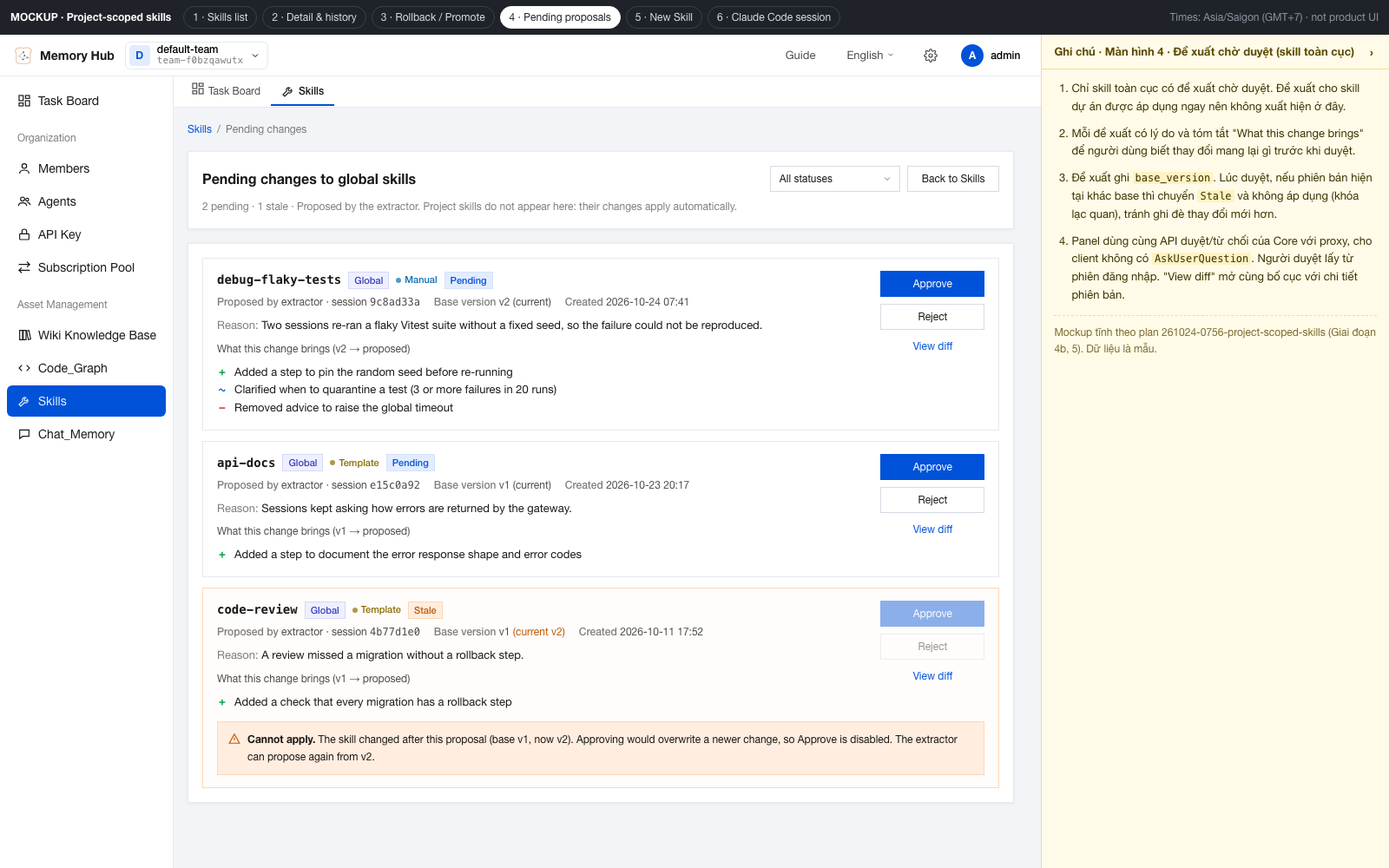
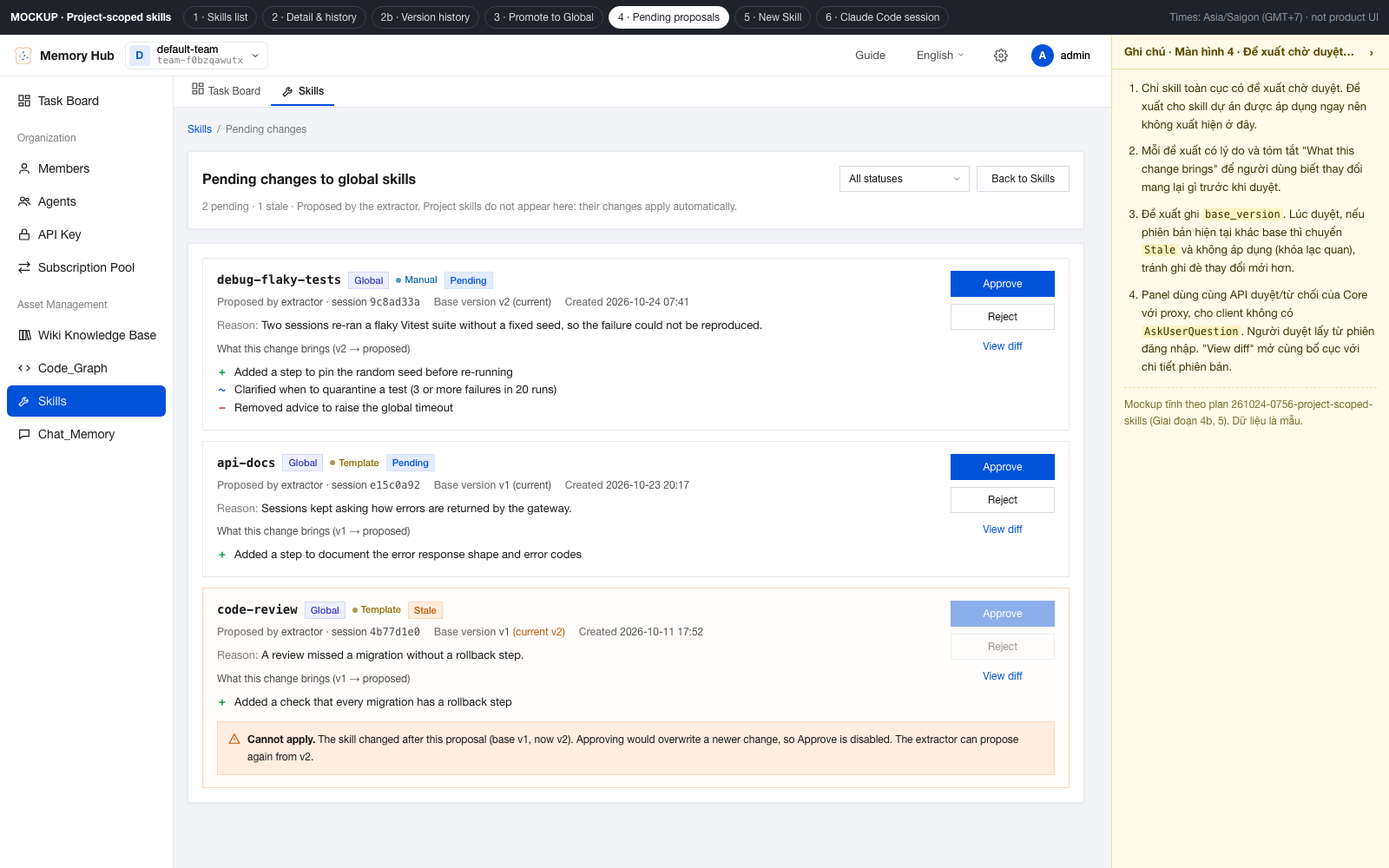
docs: update skills mockup with version history and set-version flow

diff --git a/plans/261024-0756-project-scoped-skills/mockup/skills-mockup.html b/plans/261024-0756-project-scoped-skills/mockup/skills-mockup.html
@@ -10,7 +10,7 @@
   (node_modules/tea-component/dist/themes/default-light.css + default-pack.css)
   and the Panel overrides in MemoryPanel/web/src/index.css / tea-override.css.
   Navigate with the dark strip at the top or with URL hashes:
-    #list  #detail  #version:4  #dialogs  #proposals  #proposal:p1  #new  #cc
+    #list  #detail  #history  #history:rollback:2  #history:after  #version:4  #dialogs  #proposals  #proposal:p1  #new  #cc
 -->
 <style>
 :root{
@@ -70,10 +70,10 @@ button:focus-visible,input:focus-visible,select:focus-visible,textarea:focus-vis
 .mock-strip .sp{flex:1}
 .mock-wrap{flex:1;min-height:0;min-width:0;display:flex;overflow:hidden}
 .app{flex:1;min-width:0;display:flex;flex-direction:column;position:relative;overflow:hidden}
-.notes{flex:0 0 320px;background:var(--mock-note);border-left:1px solid var(--mock-note-border);display:flex;flex-direction:column;transition:flex-basis .2s}
-.notes.collapsed{flex-basis:36px}
+.notes{flex:0 0 320px;width:320px;min-width:0;overflow:hidden;background:var(--mock-note);border-left:1px solid var(--mock-note-border);display:flex;flex-direction:column;transition:flex-basis .2s}
+.notes.collapsed{flex-basis:36px;width:36px}
 .notes-head{display:flex;align-items:center;gap:8px;height:40px;padding:0 8px 0 14px;border-bottom:1px solid var(--mock-note-border);font-weight:600;font-size:13px;color:#5c4a00}
-.notes-head span{flex:1;white-space:nowrap;overflow:hidden}
+.notes-head span{flex:1;min-width:0;white-space:nowrap;overflow:hidden;text-overflow:ellipsis}
 .notes-toggle{border:0;background:transparent;width:24px;height:24px;color:#5c4a00;font-size:16px;line-height:1}
 .notes.collapsed .notes-head span,.notes.collapsed .notes-body{display:none}
 .notes.collapsed .notes-head{padding:0 6px;justify-content:center}
@@ -180,9 +180,9 @@ textarea.input{height:auto;padding:8px 10px;font-family:var(--font-mono);line-he
 .pending-dot{width:6px;height:6px;border-radius:50%;background:var(--tea-color-palette-orange-8)}
 
 /* ===== Split layout + AssetListPanel ===== */
-.split{display:grid;grid-template-columns:360px 6px minmax(0,1fr);flex:1;min-height:560px}
+.split{display:grid;grid-template-columns:minmax(260px,330px) 6px minmax(0,1fr);align-items:start}
 .resizer{display:flex;justify-content:center}.resizer i{width:2px;height:100%;background:var(--tea-color-border-primary-default);border-radius:2px}
-.alp{height:100%;padding:16px;border:1px solid var(--tea-color-border-primary-default);border-radius:6px;background:#fff;box-shadow:var(--tea-shadow-xs);display:flex;flex-direction:column;min-height:0}
+.alp{padding:16px;border:1px solid var(--tea-color-border-primary-default);border-radius:6px;background:#fff;box-shadow:var(--tea-shadow-xs);display:flex;flex-direction:column;min-height:0}
 .alp-head{display:flex;justify-content:space-between;align-items:center;min-height:28px;padding-bottom:8px;margin-bottom:4px;border-bottom:1px solid var(--tea-color-border-secondary-default)}
 .alp-title{font-size:13px;font-weight:600}.alp-count{font-size:12px;color:var(--tea-color-text-tertiary)}
 .alp-items{list-style:none;margin:0;padding:0;overflow-y:auto;flex:1}
@@ -202,15 +202,20 @@ textarea.input{height:auto;padding:8px 10px;font-family:var(--font-mono);line-he
 .pend-mini{font-size:11px;color:var(--tea-color-text-warning-default);font-weight:500}
 
 /* ===== Skill detail card ===== */
-.sd{height:100%;display:flex;flex-direction:column;min-height:0}
+.sd{display:flex;flex-direction:column}
 .sd-head{padding:16px 16px 12px;border-bottom:1px solid var(--tea-color-border-primary-default)}
-.sd-head-main{display:flex;justify-content:space-between;align-items:flex-start;gap:16px}
+.sd-head-main{display:flex;justify-content:space-between;align-items:flex-start;gap:16px;flex-wrap:wrap}
 .sd-name{font-family:var(--font-mono);font-size:14px;font-weight:600;word-break:break-all}
 .sd-id{font-family:var(--font-mono);font-size:11px;color:var(--tea-color-text-tertiary);margin-top:3px}
 .sd-desc{margin-top:4px;font-size:12px;color:var(--tea-color-text-secondary)}
 .sd-meta{display:flex;align-items:center;gap:8px;flex-wrap:wrap;margin-top:8px}
 .sd-actions{display:flex;gap:8px;flex-wrap:wrap;justify-content:flex-end}
-.sd-scroll{flex:1;overflow-y:auto;padding:16px}
+.sd-scroll{padding:16px}
+.vstack{display:flex;flex-direction:column;gap:8px}
+.vcard{border:1px solid var(--tea-color-border-primary-default);background:#fff;padding:10px 12px}
+.vcard.rb{border-left:3px solid #ffb37a}
+.vcard .td-sum .sum{margin-top:6px;font-size:12px}
+.whatsnew .tl-meta{margin-top:6px}
 .sec+.sec{margin-top:20px}
 .sec-head{display:flex;align-items:center;justify-content:space-between;gap:8px;margin-bottom:8px}
 .sec-title{font-size:12px;font-weight:600;color:var(--tea-color-text-secondary)}
@@ -275,6 +280,43 @@ textarea.input{height:auto;padding:8px 10px;font-family:var(--font-mono);line-he
 .diff .side>div+div{border-left:1px solid var(--tea-color-border-primary-default)}
 .diff .empty td{background:repeating-linear-gradient(-45deg,#fafbfc,#fafbfc 4px,#f2f4f8 4px,#f2f4f8 8px)}
 
+/* ===== Version history timeline ===== */
+.hist-grid{display:grid;grid-template-columns:minmax(360px,440px) minmax(0,1fr);gap:16px;align-items:start}
+.hist-cmp{position:sticky;top:0}
+.tl{list-style:none;margin:0;padding:0}
+.tl-item{position:relative;padding:0 0 14px 28px}
+.tl-item::before{content:'';position:absolute;left:7px;top:12px;bottom:-12px;width:2px;background:var(--tea-color-border-primary-default)}
+.tl-item:last-child::before{display:none}
+.tl-dot{position:absolute;left:1px;top:12px;width:14px;height:14px;border-radius:50%;background:#fff;border:2px solid var(--tea-color-palette-bluegray-4)}
+.tl-item.cur .tl-dot{border-color:var(--tea-color-bg-brand-default);background:var(--tea-color-bg-brand-default);box-shadow:0 0 0 3px var(--tea-color-bg-brand-lighten-default)}
+.tl-item.rb .tl-dot{border-color:#c25a00}
+.tl-card{border:1px solid var(--tea-color-border-primary-default);background:#fff;padding:10px 12px}
+.tl-item.cur .tl-card{border-color:var(--tea-color-palette-blue-2);background:#f7faff}
+.tl-item.picked .tl-card{box-shadow:inset 3px 0 0 var(--tea-color-bg-brand-default)}
+.tl-h{display:flex;align-items:center;gap:6px;flex-wrap:wrap}
+.tl-date{font-size:12px;color:var(--tea-color-text-secondary)}
+.tl-pick{margin-left:auto;font-size:12px;display:flex;gap:4px;align-items:center;color:var(--tea-color-text-secondary);cursor:pointer}
+.tl-pick input{accent-color:var(--tea-color-bg-brand-default)}
+.tl-restored{margin-top:6px;font-size:12px;color:var(--tea-color-text-warning-default);font-weight:500}
+.tl-meta{font-size:12px;color:var(--tea-color-text-secondary);margin-top:6px;display:flex;gap:4px 14px;flex-wrap:wrap}
+.tl-meta b{font-weight:400;color:var(--tea-color-text-tertiary)}
+.tl-reason{font-size:12px;margin-top:4px}
+.tl-acts{display:flex;gap:12px;align-items:center;margin-top:8px}
+.tag-cur{background:var(--tea-color-bg-brand-default);color:#fff;border-color:var(--tea-color-bg-brand-default)}
+.btn.brand-outline{border-color:var(--tea-color-border-brand-default);color:var(--tea-color-text-brand-default)}
+.btn.brand-outline:hover{background:var(--tea-color-bg-brand-lighten-default)}
+.cmp-sum{border:1px solid var(--tea-color-border-secondary-default);background:var(--tea-color-bg-secondary-default);padding:10px 12px;margin-bottom:12px}
+.cmp-sum .rm-h{margin-top:8px}
+.cmp-sum .rm-h:first-of-type{margin-top:4px}
+.rm-h{display:flex;align-items:center;gap:6px;font-size:12px}
+.rm-h b{font-family:var(--font-mono)}
+.rm-list{border:1px solid #f9c9c9;background:#fffafa;padding:8px 12px;margin-bottom:12px}
+.rm-item+.rm-item{margin-top:8px;padding-top:8px;border-top:1px dashed #f3d3d3}
+.rm-list .sum{margin-top:2px;font-size:12px}
+.dlg-wide{width:780px}
+.dlg-scroll{max-height:calc(100vh - 260px);overflow-y:auto;padding-right:4px}
+.dlg-scroll .diff{max-height:240px;overflow-y:auto}
+
 /* ===== Proposals ===== */
 .prop{border:1px solid var(--tea-color-border-primary-default);background:#fff;padding:14px 16px;display:grid;grid-template-columns:minmax(0,1fr) auto;gap:12px 16px}
 .prop+.prop{margin-top:12px}
@@ -332,7 +374,7 @@ textarea.input{height:auto;padding:8px 10px;font-family:var(--font-mono);line-he
 .t-prompt{border:1px solid #3a3f48;border-radius:6px;padding:4px 10px;margin-top:10px;color:#8b93a1}
 .cc-switch{display:flex;gap:8px;align-items:center;font-size:12px;color:var(--tea-color-text-secondary);flex-wrap:wrap}
 
-@media (max-width:1100px){.split{grid-template-columns:minmax(0,1fr)}.resizer{display:none}.alp{min-height:360px}}
+@media (max-width:1100px){.split{grid-template-columns:minmax(0,1fr)}.resizer{display:none}}
 @media (max-width:760px){.sider{display:none}.notes{position:absolute;right:0;top:40px;bottom:0;z-index:90}.prop{grid-template-columns:1fr}.prop-acts{flex-direction:row;flex-wrap:wrap}}
 </style>
 </head>
@@ -342,7 +384,8 @@ textarea.input{height:auto;padding:8px 10px;font-family:var(--font-mono);line-he
   <b>MOCKUP · Project-scoped skills</b>
   <button data-go="list">1 · Skills list</button>
   <button data-go="detail">2 · Detail &amp; history</button>
-  <button data-go="dialogs">3 · Rollback / Promote</button>
+  <button data-go="history">2b · Version history</button>
+  <button data-go="dialogs">3 · Promote to Global</button>
   <button data-go="proposals">4 · Pending proposals</button>
   <button data-go="new">5 · New Skill</button>
   <button data-go="cc">6 · Claude Code session</button>
@@ -401,6 +444,7 @@ const I = {
   warn:'<svg width="14" height="14" viewBox="0 0 24 24" fill="none" stroke="#c25a00" stroke-width="2"><path d="M12 3l10 18H2z"/><path d="M12 10v5M12 18v.5"/></svg>',
   ok:'<svg width="14" height="14" viewBox="0 0 24 24" fill="none" stroke="#0a9e4c" stroke-width="2.4"><path d="M5 12l5 5 9-10"/></svg>',
   person:'<svg width="12" height="12" viewBox="0 0 24 24" fill="none" stroke="currentColor" stroke-width="2"><circle cx="12" cy="8" r="4"/><path d="M4 21c0-4 4-6 8-6s8 2 8 6"/></svg>',
+  clock:'<svg width="14" height="14" viewBox="0 0 24 24" fill="none" stroke="currentColor" stroke-width="2"><circle cx="12" cy="12" r="9"/><path d="M12 7v5l3 2"/></svg>',
   close:'<svg width="14" height="14" viewBox="0 0 24 24" fill="none" stroke="currentColor" stroke-width="2"><path d="M6 6l12 12M18 6L6 18"/></svg>',
 };
 const esc = s => String(s).replace(/&/g,'&amp;').replace(/</g,'&lt;').replace(/>/g,'&gt;').replace(/"/g,'&quot;');
@@ -432,6 +476,8 @@ const PASEO_V4 = L([...FM('paseo-computer-use-gating',PASEO_DESC),
   '## Pass / fail','- Pass: the agent completes the goal without a manual click, in 15 minutes or less.','- Fail: any permission prompt, manual step, or timeout. Stop and record why.','',
   '## Notes','- If TCC permission is missing, stop and ask the user. Do not open System Settings automatically.']);
 
+const PASEO_V5 = PASEO_V4+'\n\n## Cleanup\n- Revoke temporary TCC grants after the spike.';
+const PASEO_V6 = PASEO_V5.replace('max 15 minutes','max 20 minutes').replace('in 15 minutes or less','in 20 minutes or less')+'\n\n## See also\n- docs/adr/0007-computer-use.md';
 const DFT_DESC = 'Find and fix flaky tests without hiding real failures.';
 const DFT_V2 = L([...FM('debug-flaky-tests',DFT_DESC),
   '# Debug flaky tests','','## Steps','1. Re-run the failing test alone 20 times.','2. If it fails at least once, mark it flaky.','3. Raise the global test timeout to 30s and re-run.','4. Find the shared state or timing cause and fix it.','',
@@ -452,8 +498,12 @@ const AD_PROP = L([...FM('api-docs',AD_DESC),'# API docs','','## Steps','1. List
 
 const S = (k,t) => ({k,t}); // k: add | chg | del | rst
 const SKILLS = [
-  {id:'skl-7Qm2pAseo41X', name:'paseo-computer-use-gating', desc:PASEO_DESC, scope:'project', project:'kevinle128/paseo', origin:'extracted', version:4, updated:'2026-10-23 16:42', owner:'admin',
+  {id:'skl-7Qm2pAseo41X', name:'paseo-computer-use-gating', desc:PASEO_DESC, scope:'project', project:'kevinle128/paseo', origin:'extracted', version:6, updated:'2026-10-24 08:05', owner:'admin',
    versions:[
+    {v:6, date:'2026-10-24 08:05', source:'manual', reason:'Spikes on the M1 runner need about 18 minutes.', approver:'admin', by:'admin', sumBy:'admin',
+     content:PASEO_V6, summary:[S('chg','Raised the spike time limit from 15 to 20 minutes'),S('add','Re-added the "See also" link to ADR 0007')]},
+    {v:5, date:'2026-10-24 06:58', source:'extracted', reason:'A spike left Screen Recording access on after the session ended.', approver:'system', session:'c4e19b27', by:'extractor', sumBy:'extractor',
+     content:PASEO_V5, summary:[S('add','Added a cleanup step to revoke temporary TCC grants after the spike')]},
     {v:4, date:'2026-10-23 16:42', source:'extracted', reason:'A session hit a TCC prompt mid-spike; a permission pre-check prevents it.', approver:'system', session:'a81c03fe', by:'extractor', sumBy:'extractor',
      content:PASEO_V4, summary:[S('add','Added a step to verify TCC permission before the spike (and a stop rule when it is missing)'),S('chg','Clarified the pass/fail criteria'),S('del','Removed outdated macOS 13 note')]},
     {v:3, date:'2026-10-21 10:15', source:'rollback', reason:'The v2 wording dropped the 15-minute limit from the pass rule.', approver:'admin', by:'admin', sumBy:'generated', from:1,
@@ -674,28 +724,20 @@ function detailCard(s, compact){
         (s.promotedFrom?'<span class="muted" style="font-size:11px">Promoted from project '+esc(s.promotedFrom)+' · extractor can only propose changes</span>':'')+
         (s.scope==='project'?'<span class="muted" style="font-size:11px">Extractor changes apply automatically</span>':'')+
       '</div></div>'+
-      '<div class="sd-actions"><button class="btn primary">Edit</button><button class="btn">Add file</button>'+promote+'</div></div></div>';
-  const whatsnew='<div class="sec"><div class="whatsnew"><div class="whatsnew-h">v'+cur.v+' · What\'s new '+sourceTag(cur.source)+'<span class="muted">'+cur.date+' · approved by '+(cur.approver==='system'?'system (auto-applied)':esc(cur.approver))+'</span>'+
-      '<button class="link" style="margin-left:auto" data-act="vd:'+cur.v+'">View details &amp; diff &rsaquo;</button></div>'+
-      sumList(cur.summary)+'<div class="sum-by">'+sumByText(cur)+' · stored with v'+cur.v+'</div></div></div>';
-  const body='<div class="sec"><div class="sec-head"><span class="sec-title">Body</span></div>'+md(cur.content)+'</div>';
-  const hist='<div class="sec" id="history"><div class="sec-head"><span class="sec-title">Version history ('+vs.length+')</span><span class="muted" style="font-size:11px">Click a row to see the diff · times in Asia/Saigon</span></div>'+
-    '<table class="tbl"><thead><tr><th style="width:96px">Version</th><th style="width:132px">Date (Asia/Saigon)</th><th style="width:104px">Source</th><th>Approved by</th><th style="width:150px">Actions</th></tr></thead>'+
-    vs.map(v=>{
-      const isCur=v.v===s.version;
-      return '<tbody class="vrow'+(isCur?' cur':'')+'" data-act="vd:'+v.v+'" tabindex="0">'+
-        '<tr><td><span class="v-label">v'+v.v+(isCur?'<span class="v-cur">(Current)</span>':'')+'</span></td>'+
-        '<td style="white-space:nowrap">'+v.date+'</td>'+
-        '<td>'+sourceTag(v.source)+(v.source==='rollback'?' <span class="muted" style="font-size:11px">from v'+v.from+'</span>':'')+'</td>'+
-        '<td>'+approverText(v)+'</td>'+
-        '<td><div class="acts"><button class="link" data-act="vd:'+v.v+'">View details</button>'+
-          (isCur?'<span class="muted" style="font-size:11px">Current version</span>':'<button class="link" data-act="rollback:'+v.v+'">Rollback to this version</button>')+
-        '</div></td></tr>'+
-        '<tr class="sumrow"><td colspan="5" class="td-sum" id="sum-'+v.v+'"><span class="sum-label">What\'s improved</span>'+sumList(v.summary,true)+
-          '<div class="sum-foot">'+(v.summary.length>2?'<button class="expand" data-act="expand:'+v.v+'">Show all ('+v.summary.length+')</button>':'')+'<span class="sum-by" style="margin:0">'+sumByText(v)+'</span></div></td></tr>'+
-      '</tbody>';}).join('')+
-    '</table></div>';
-  return '<div class="card sd">'+head+'<div class="sd-scroll">'+whatsnew+(compact?body:hist+body)+'</div></div>';
+      '<div class="sd-actions"><button class="btn primary">Edit</button><button class="btn brand-outline" data-go="history">'+I.clock+' Version history ('+vs.length+')</button><button class="btn">Add file</button>'+promote+'</div></div></div>';
+  const body='<div class="sec"><div class="sec-head"><span class="sec-title">Body (v'+cur.v+', current)</span></div>'+md(cur.content)+'</div>';
+  const card=v=>{
+    const isCur=v.v===s.version;
+    const metaLine='<div class="tl-meta"><span><b>Changed by</b> '+(v.by==='extractor'?'extractor · session <span class="mono">'+v.session+'</span>':esc(v.by))+'</span><span><b>Approved by</b> '+(v.approver==='system'?'system (auto-applied)':esc(v.approver))+'</span></div>';
+    if (isCur) return '<div class="whatsnew"><div class="whatsnew-h"><span class="ver-tag">v'+v.v+' · Current</span>'+sourceTag(v.source)+(v.source==='rollback'?'<span class="tl-restored" style="margin:0">↺ restored from v'+v.from+'</span>':'')+'<span class="muted">'+v.date+'</span></div>'+
+      metaLine+sumList(v.summary)+'<div class="sum-foot"><span class="sum-by" style="margin:0">'+sumByText(v)+' · stored with v'+v.v+'</span><button class="link" style="margin-left:auto" data-act="vd:'+v.v+'">View details &amp; diff &rsaquo;</button></div></div>';
+    return '<div class="vcard'+(v.source==='rollback'?' rb':'')+'"><div class="tl-h"><span class="ver-tag">v'+v.v+'</span>'+sourceTag(v.source)+(v.source==='rollback'?'<span class="tl-restored" style="margin:0">↺ restored from v'+v.from+'</span>':'')+'<span class="tl-date">'+v.date+'</span></div>'+
+      metaLine+'<div class="td-sum" id="sum-'+v.v+'">'+sumList(v.summary,true)+'</div>'+
+      '<div class="sum-foot">'+(v.summary.length>2?'<button class="expand" data-act="expand:'+v.v+'">Show all ('+v.summary.length+')</button>':'')+'<span class="sum-by" style="margin:0">'+sumByText(v)+'</span></div>'+
+      '<div class="tl-acts"><button class="link" data-act="vd:'+v.v+'">View details &amp; diff</button><button class="btn sm" data-act="rollback:'+v.v+'">Set skill to this version</button></div></div>';
+  };
+  const stack='<div class="sec"><div class="sec-head"><span class="sec-title" style="font-size:13px;color:var(--tea-color-text-primary)">Version history ('+vs.length+')</span><span class="muted" style="font-size:11px">Newest first · Asia/Saigon · <button class="link" data-go="history">Compare versions &rsaquo;</button></span></div><div class="vstack">'+vs.map(card).join('')+'</div></div>';
+  return '<div class="card sd">'+head+'<div class="sd-scroll">'+body+stack+'</div></div>';
 }
 function scrDetail(){
   const s=skillByName(st.selected);
@@ -716,7 +758,7 @@ function scrVersion(){
       '<dt>Approved by</dt><dd>'+approverText(v)+'</dd><dt>Time</dt><dd>'+v.date+' <span class="muted">(Asia/Saigon)</span></dd>'+
       (v.source==='rollback'?'<dt>Restored from</dt><dd>v'+v.from+'</dd>':'')+'</dl></div>'+
     '<div class="sd-actions"><button class="btn" data-go="detail">Back to history</button>'+
-      '<button class="btn primary" data-act="rollback:'+v.v+'" '+(isCur?'disabled title="This is the current version"':'')+'>Rollback to this version</button></div></div></section>'+
+      '<button class="btn primary" data-act="rollback:'+v.v+'" '+(isCur?'disabled title="This is the current version"':'')+'>Set skill to this version</button></div></div></section>'+
   '<section class="card card-pad"><div class="sec-head"><span class="sec-title">What\'s improved in v'+v.v+'</span><span class="muted" style="font-size:11px">'+sumByText(v)+' · stored with this version</span></div>'+sumList(v.summary)+'</section>'+
   '<section class="card card-pad"><div class="diff-bar"><span class="sec-title">Changes</span>'+
       '<span class="f-label">Compare</span><span class="mono" style="font-size:12px">v'+v.v+'</span><span class="muted">with</span>'+
@@ -729,17 +771,66 @@ function scrVersion(){
 }
 
 /* ---------- screen 3: dialogs ---------- */
-function rollbackDlg(target, tag){
-  const s=skillByName(st.selected), vs=versionsOf(s), t=vs.find(x=>x.v===target), next=s.version+1;
-  return '<div class="dlg" role="dialog" aria-modal="true" aria-labelledby="rb-cap">'+(tag?'<span class="dlg-tag">Opened from “Rollback to this version”</span>':'')+
+function rollbackDlg(target){
+  const s=skillByName(st.selected), vs=versionsOf(s), cur=vs[0], t=vs.find(x=>x.v===target), next=s.version+1;
+  const removed=vs.filter(x=>x.v>target);
+  const range=target+1===s.version?'v'+s.version:'v'+(target+1)+'–v'+s.version;
+  const d=renderDiff(cur.content,t.content,'unified');
+  return '<div class="dlg dlg-wide" role="dialog" aria-modal="true" aria-labelledby="rb-cap">'+
     '<button class="dlg-x" data-act="close" aria-label="Close">'+I.close+'</button>'+
-    '<h3 class="dlg-cap" id="rb-cap">Rollback “'+esc(s.name)+'” to v'+target+'?</h3>'+
-    '<div class="dlg-body"><div class="ba"><div><small>Current</small>v'+s.version+' · '+SOURCE[vs[0].source]+'</div><span class="muted">→</span><div><small>New version</small>v'+next+' · Rollback</div></div>'+
-    '<div class="alert alert-info" style="margin-bottom:12px">'+I.info+'<span>Rollback creates a new version <b>v'+next+'</b> with the content of <b>v'+target+'</b>; history is kept. v'+(target+1)+'–v'+s.version+' stay in the version history.</span></div>'+
-    '<span class="label">Summary stored with v'+next+' (generated)</span>'+sumList([S('rst','Restored content of v'+target+' (rollback by admin)')])+
-    '<div class="field" style="margin-top:12px"><label class="label req" for="rb-reason">Reason</label><input class="input" id="rb-reason" value="Restore the testable pass/fail wording from v2"></div>'+
-    '<p class="muted" style="margin:0">Approved by: admin (you). The change applies now because you made it.</p></div>'+
-    '<div class="dlg-foot"><button class="btn primary" data-act="do-rollback:'+target+'">Rollback to v'+target+'</button><button class="btn" data-act="close">Cancel</button></div></div>';
+    '<h3 class="dlg-cap" id="rb-cap">Set skill “'+esc(s.name)+'” to v'+target+'?</h3>'+
+    '<div class="dlg-body dlg-scroll">'+
+    '<div class="ba"><div><small>Current</small>v'+s.version+' · '+SOURCE[cur.source]+' · '+cur.date+'</div><span class="muted">→</span><div><small>Target content</small>v'+target+' · '+SOURCE[t.source]+' · '+t.date+'</div></div>'+
+    '<span class="label" style="font-weight:600">Improvements that will be removed ('+range+')</span>'+
+    '<div class="rm-list">'+removed.map(v=>'<div class="rm-item"><div class="rm-h"><b>v'+v.v+'</b>'+sourceTag(v.source)+'<span class="muted">'+v.date+'</span></div>'+sumList(v.summary)+'</div>').join('')+'</div>'+
+    '<div class="sec-head"><span class="label" style="font-weight:600;margin:0">Changes from v'+s.version+' (current) to the content of v'+target+'</span>'+d.stat+'</div>'+d.html+
+    '<div class="field" style="margin-top:12px"><label class="label req" for="rb-reason">Reason</label><input class="input" id="rb-reason" placeholder="Why do you set the skill to this version? Stored with the new version."><div class="err-text" id="rb-err" style="display:none">Reason is required.</div></div>'+
+    '<div class="alert alert-info">'+I.info+'<span><b>Creates v'+next+' with the content of v'+target+'.</b> '+range+' stay in history; you can roll forward again.</span></div>'+
+    '<p class="muted" style="margin:8px 0 0">Summary stored with v'+next+' (generated): “Restored content of v'+target+' (rollback by admin)”. Approved by: admin (you) · applies now.</p></div>'+
+    '<div class="dlg-foot"><button class="btn primary" data-act="do-rollback:'+target+'">Set skill to v'+target+'</button><button class="btn" data-act="close">Cancel</button></div></div>';
+}
+function applyRollback(s,target,reason){
+  const vs=versionsOf(s), t=vs.find(x=>x.v===target), next=s.version+1, date='2026-10-24 08:40';
+  vs.unshift({v:next,date,source:'rollback',from:target,reason,approver:'admin',by:'admin',sumBy:'generated',content:t.content,summary:[S('rst','Restored content of v'+target+' (rollback by admin)')]});
+  s.version=next; s.updated=date; st.hFrom=null; st.hTo=null; st.hPicks=null;
+  return next;
+}
+/* ---------- screen 2c: version history timeline ---------- */
+function scrHistory(){
+  const s=skillByName(st.selected), vs=versionsOf(s), cur=s.version, has=v=>vs.some(x=>x.v===v);
+  let from=st.hFrom!=null&&has(st.hFrom)?st.hFrom:vs[Math.min(1,vs.length-1)].v, to=st.hTo!=null&&has(st.hTo)?st.hTo:cur;
+  st.hFrom=from; st.hTo=to;
+  const fa=vs.find(x=>x.v===from), ta=vs.find(x=>x.v===to), lo=Math.min(from,to), hi=Math.max(from,to), fwd=to>from;
+  const between=vs.filter(x=>x.v>lo&&x.v<=hi);
+  const d=from===to?null:renderDiff(fa.content,ta.content,st.view);
+  const opt=sel=>vs.map(x=>'<option value="'+x.v+'" '+(x.v===sel?'selected':'')+'>v'+x.v+(x.v===cur?' (current)':'')+' · '+SOURCE[x.source]+'</option>').join('');
+  const tl=vs.map(v=>{
+    const isCur=v.v===cur, picked=v.v===from||v.v===to;
+    return '<li class="tl-item'+(isCur?' cur':'')+(v.source==='rollback'?' rb':'')+(picked?' picked':'')+'"><span class="tl-dot"></span><div class="tl-card">'+
+      '<div class="tl-h"><span class="ver-tag">v'+v.v+'</span>'+(isCur?'<span class="tag tag-cur">Current</span>':'')+sourceTag(v.source)+'<span class="tl-date">'+v.date+'</span>'+
+        '<label class="tl-pick"><input type="checkbox" data-act="hpick:'+v.v+'" '+(picked?'checked':'')+'> Compare</label></div>'+
+      (v.source==='rollback'?'<div class="tl-restored">↺ Restored from v'+v.from+'</div>':'')+
+      '<div class="tl-meta"><span><b>Changed by</b> '+(v.by==='extractor'?'extractor · session <span class="mono">'+v.session+'</span>':esc(v.by))+'</span><span><b>Approved by</b> '+(v.approver==='system'?'system (auto-applied)':esc(v.approver))+'</span></div>'+
+      '<div class="tl-reason"><span class="muted">Reason:</span> '+esc(v.reason)+'</div>'+
+      sumList(v.summary)+'<div class="sum-by">'+sumByText(v)+'</div>'+
+      '<div class="tl-acts"><button class="link" data-act="vd:'+v.v+'">View details</button>'+
+        (isCur?'<span class="muted" style="font-size:12px">This is the current version</span>':'<button class="btn sm" data-act="rollback:'+v.v+'">Set skill to this version</button>')+'</div>'+
+    '</div></li>';}).join('');
+  return '<nav class="crumbs"><a data-go="list">Skills</a>/<a data-go="detail">'+esc(s.name)+'</a>/<span>Version history</span></nav>'+
+  '<section class="card card-pad"><div class="vd-head"><div><div class="vd-title"><span class="mono">'+esc(s.name)+'</span><span class="ver-tag">v'+cur+' current</span>'+scopeBadge(s)+originChip(s.origin)+'</div>'+
+    '<div class="aph-sub" style="margin-top:6px">'+vs.length+' versions · newest first · times in Asia/Saigon · every change is kept; rollback adds a new version</div></div>'+
+    '<div class="sd-actions"><button class="btn" data-go="detail">Back to skill</button></div></div></section>'+
+  '<div class="hist-grid"><section class="card card-pad"><div class="sec-head"><span class="sec-title">Timeline</span><span class="muted" style="font-size:11px">Tick two versions to compare</span></div><ol class="tl">'+tl+'</ol></section>'+
+  '<section class="card card-pad hist-cmp"><div class="sec-head"><span class="sec-title">Compare versions</span></div>'+
+    '<div class="diff-bar"><span class="f-label">From</span><select class="sel-box" id="h-from" aria-label="From version">'+opt(from)+'</select>'+
+      '<span class="f-label">To</span><select class="sel-box" id="h-to" aria-label="To version">'+opt(to)+'</select>'+
+      '<button class="btn sm" data-act="hswap">Swap</button>'+
+      '<div class="seg"><button class="'+(st.view==='unified'?'on':'')+'" data-act="view:unified">Unified</button><button class="'+(st.view==='side'?'on':'')+'" data-act="view:side">Side by side</button></div></div>'+
+    (from===to?'<div class="alert alert-info">'+I.info+'<span>Choose two different versions.</span></div>':
+    '<div class="cmp-sum"><span class="label" style="font-weight:600;margin:0">'+(fwd?'Improvements from v'+from+' to v'+to:'Going back from v'+from+' to v'+to+' removes')+'</span>'+
+      between.map(v=>'<div class="rm-h"><b>v'+v.v+'</b>'+sourceTag(v.source)+'<span class="muted">'+v.date+'</span></div>'+sumList(v.summary)).join('')+'</div>'+
+    '<div class="diff-bar"><span class="sec-title">Changes v'+from+' → v'+to+'</span>'+d.stat+'</div>'+d.html)+
+  '</section></div>';
 }
 function promoteDlg(tag){
   const s=skillByName(st.selected);
@@ -869,18 +960,23 @@ const NOTES={
   detail:['Màn hình 2 · Chi tiết và lịch sử phiên bản',[
     'Skill dự án: thay đổi của bộ trích xuất được tự áp dụng, cột Approved by ghi <code>system (auto-applied)</code>. Sửa tay, rollback, chuyển thành toàn cục: áp dụng ngay, người duyệt là chính người thao tác.',
     SUMMARY_NOTE,
-    'Danh sách lịch sử không hiện diff. Bấm một dòng (hoặc "View details") để mở chi tiết phiên bản, ở đó mới có diff và nút rollback.',
+    'Dưới phần Body là mục "Version history": thẻ bản hiện tại (vN · Current) rồi toàn bộ phiên bản cũ, mới nhất trên cùng, không cần chuyển màn. Mỗi thẻ có nguồn, thời điểm, người sửa, người duyệt, tóm tắt (hiện 2 dòng đầu), "View details & diff" và "Set skill to this version". Diff chỉ hiện trong trang chi tiết phiên bản.',
     'Rollback không xóa lịch sử: tạo phiên bản mới chép nội dung phiên bản cũ. Ví dụ v3 là rollback về nội dung v1, v2 vẫn còn.']],
   version:['Chi tiết phiên bản (mở từ màn hình 2)',[
     'Phần đầu: phiên bản, nguồn sửa, lý do, người sửa, người duyệt, thời điểm (Asia/Saigon).',
     'Tóm tắt nằm trên diff để đọc nhanh trước khi xem từng dòng. '+SUMMARY_NOTE,
     'Diff mặc định so với phiên bản liền trước; chọn được phiên bản khác ở ô "Compare with". Dòng thêm màu xanh, dòng xóa màu đỏ.',
     'Không rollback về phiên bản hiện tại (nút bị tắt).']],
-  dialogs:['Màn hình 3 · Xác nhận Rollback và Promote',[
-    'Rollback về v2 tạo <code>v5</code> với nội dung của v2; v3 và v4 vẫn nằm trong lịch sử. Nguồn: <code>Rollback</code>, tóm tắt do hệ thống tạo: "Restored content of v2 (rollback by admin)".',
+  history:['Màn hình 2b · Lịch sử phiên bản và rollback',[
+    'Dòng thời gian liệt kê mọi phiên bản, mới nhất trên cùng: số phiên bản, đánh dấu Current, thời điểm (Asia/Saigon), nguồn, người sửa, người duyệt, tóm tắt cải tiến; bản rollback ghi "Restored from vN".',
+    'So sánh hai phiên bản bất kỳ: chọn From/To hoặc tick hai ô Compare. Hiện tóm tắt các phiên bản nằm giữa hai bản rồi mới đến diff (xanh thêm, đỏ xóa).',
+    'Mọi phiên bản không phải hiện tại đều có nút "Set skill to this version" (về kỹ thuật là rollback). Hộp xác nhận cho xem trước diff từ bản hiện tại tới nội dung đích, liệt kê các cải tiến sẽ mất, bắt buộc nhập lý do. Rollback tạo phiên bản mới (ví dụ v7 chép nội dung v2), không xóa v3–v6, nên có thể roll forward lại bằng cách rollback tới v6.',
+    'Skill toàn cục: rollback do người dùng bấm được áp dụng ngay (người dùng là người duyệt), không tạo đề xuất chờ duyệt, và được ghi lại như mọi phiên bản khác. Skill dự án cũng vậy.']],
+  dialogs:['Màn hình 3 · Xác nhận Promote to Global',[
+    'Rollback có màn riêng: xem màn 2b (Version history) và hộp xác nhận xem trước.',
     'Promote to Global: <code>scope = global</code>, <code>origin = manual</code>, ghi một phiên bản nguồn <code>Promotion</code>. Skill được inject cho mọi dự án của agent.',
     'Sau khi promote, bộ trích xuất không tự sửa nữa; nó chỉ được đề xuất và đề xuất phải được duyệt (Panel hoặc form trong Claude Code).',
-    'Hai hộp thoại hiện cùng lúc chỉ để xem mockup; trong sản phẩm mỗi lần mở một hộp.']],
+    'Nút Promote chỉ bật khi đã tick ô xác nhận nội dung hợp lệ cho mọi dự án.']],
   proposals:['Màn hình 4 · Đề xuất chờ duyệt (skill toàn cục)',[
     'Chỉ skill toàn cục có đề xuất chờ duyệt. Đề xuất cho skill dự án được áp dụng ngay nên không xuất hiện ở đây.',
     'Mỗi đề xuất có lý do và tóm tắt "What this change brings" để người dùng biết thay đổi mang lại gì trước khi duyệt.',
@@ -901,15 +997,15 @@ const NOTES={
     '"Later" giữ pending và không hỏi lại trong session; vẫn duyệt được trên Panel.',
     'Sau khi trả lời, proxy chuyển tiếp nguyên prompt gốc của người dùng. Request 2 minh họa từng nhánh (Approve, Reject, Later, Other); "Other" không đọc được thì giữ pending.']],
 };
-const SCREEN_GROUP={list:'list',detail:'detail',version:'detail',dialogs:'dialogs',proposals:'proposals',proposal:'proposals',new:'new',cc:'cc'};
+const SCREEN_GROUP={history:'history',list:'list',detail:'detail',version:'detail',dialogs:'dialogs',proposals:'proposals',proposal:'proposals',new:'new',cc:'cc'};
 
 /* ---------- render ---------- */
 function render(){
   const page=document.getElementById('page'), ov=document.getElementById('overlay');
   ov.innerHTML='';
   const scr=st.screen;
-  page.innerHTML = ({list:scrList,detail:scrDetail,version:scrVersion,dialogs:scrDialogs,proposals:scrProposals,proposal:scrProposal,new:scrNew,cc:scrCC})[scr]();
-  if (scr==='dialogs') ov.innerHTML='<div class="mask">'+rollbackDlg(2,true)+promoteDlg(true)+'</div>';
+  page.innerHTML = ({history:scrHistory,list:scrList,detail:scrDetail,version:scrVersion,dialogs:scrDialogs,proposals:scrProposals,proposal:scrProposal,new:scrNew,cc:scrCC})[scr]();
+  if (scr==='dialogs') ov.innerHTML='<div class="mask">'+promoteDlg(true)+'</div>';
   if (scr==='new') ov.innerHTML='<div class="mask">'+newDlg()+'</div>';
   document.querySelectorAll('.mock-strip button[data-go]').forEach(b=>b.classList.toggle('on',b.dataset.go===SCREEN_GROUP[scr]));
   const n=NOTES[scr]; document.getElementById('notes-title').textContent='Ghi chú · '+n[0];
@@ -925,18 +1021,24 @@ function go(screen){
 }
 function fromHash(){
   const h=decodeURIComponent(location.hash.slice(1)||'list');
-  const [k,arg]=h.split(':');
+  const [k,arg,arg2]=h.split(':');
   if (k==='version'){ st.vd=+arg||4; st.cmp=null; }
   if (k==='proposal'){ st.prop=arg||'p1'; }
-  if (k==='detail'||k==='dialogs'||k==='version') st.selected='paseo-computer-use-gating';
+  if (k==='detail'||k==='dialogs'||k==='version'||k==='history') st.selected='paseo-computer-use-gating';
+  const s0=skillByName('paseo-computer-use-gating');
+  if (k==='history'&&arg==='after'&&!versionsOf(s0).some(x=>x.source==='rollback'&&x.from===2)) applyRollback(s0,2,'Restore the 15-minute limit and testable pass/fail wording from v2');
   st.screen = NOTES[k]?k:'list';
   render();
+  if (k==='history'&&arg==='rollback'){ document.getElementById('overlay').innerHTML='<div class="mask">'+rollbackDlg(+arg2||2)+'</div>'; }
+  if (k==='history'&&arg==='after'){ toast(I.ok+'<span>Skill set to v2 content: created v'+s0.version+' with the content of v2. v3–v'+(s0.version-1)+' stay in history.</span>'); }
 }
 function toast(html){ const t=document.getElementById('toast'); t.innerHTML=html; t.classList.add('show'); clearTimeout(toast._t); toast._t=setTimeout(()=>t.classList.remove('show'),2600); }
 function bindInputs(){
   const fp=document.getElementById('f-project'); if(fp) fp.onchange=e=>{st.project=e.target.value;render();};
   const fo=document.getElementById('f-origin'); if(fo) fo.onchange=e=>{st.origin=e.target.value;render();};
   const fq=document.getElementById('f-q'); if(fq) fq.oninput=e=>{st.q=e.target.value;const pos=e.target.selectionStart;render();const n=document.getElementById('f-q');n.focus();n.setSelectionRange(pos,pos);};
+  const hf=document.getElementById('h-from'); if(hf) hf.onchange=e=>{st.hFrom=+e.target.value;st.hPicks=null;render();};
+  const ht=document.getElementById('h-to'); if(ht) ht.onchange=e=>{st.hTo=+e.target.value;st.hPicks=null;render();};
   const cmp=document.getElementById('cmp'); if(cmp) cmp.onchange=e=>{st.cmp=+e.target.value;render();};
   const np=document.getElementById('n-proj'); if(np) np.onchange=e=>{st.newProject=e.target.value;st.newErr=false;render();};
   const pr=document.getElementById('pr-ok'); if(pr) pr.onchange=e=>{document.getElementById('pr-btn').disabled=!e.target.checked;};
@@ -953,13 +1055,17 @@ document.addEventListener('click',e=>{
     case 'vd': e.stopPropagation(); st.vd=+v; st.cmp=null; go('version'); break;
     case 'expand': e.stopPropagation(); { const td=document.getElementById('sum-'+v); td.classList.toggle('open'); a.textContent=td.classList.contains('open')?'Show less':'Show all'; } break;
     case 'view': st.view=v; render(); break;
-    case 'rollback': e.stopPropagation(); ov.innerHTML='<div class="mask">'+rollbackDlg(+v,false)+'</div>'; bindInputs(); break;
+    case 'rollback': e.stopPropagation(); ov.innerHTML='<div class="mask">'+rollbackDlg(+v)+'</div>'; bindInputs(); break;
+    case 'hpick': { const n=+v; let pk=st.hPicks||[st.hFrom,st.hTo]; if(!pk.includes(n)) pk=[pk[1],n]; st.hPicks=pk; st.hFrom=Math.min(...pk); st.hTo=Math.max(...pk); render(); } break;
+    case 'hswap': { const t=st.hFrom; st.hFrom=st.hTo; st.hTo=t; st.hPicks=null; render(); } break;
     case 'promote': ov.innerHTML='<div class="mask">'+promoteDlg(false)+'</div>'; bindInputs(); break;
     case 'new': go('new'); break;
     case 'import': case 'export': toast(I.info+'<span>Existing action, unchanged by this plan.</span>'); break;
     case 'close': ov.innerHTML=''; if(st.screen==='dialogs') go('detail'); if(st.screen==='new') go('list'); break;
-    case 'do-rollback': ov.innerHTML=''; toast(I.ok+'<span>Created v5 with the content of v'+v+'. History is kept.</span>'); if(st.screen==='dialogs') go('detail'); break;
-    case 'do-promote': ov.innerHTML=''; toast(I.ok+'<span>Promoted to Global as v5 (Promotion). Origin is now Manual.</span>'); if(st.screen==='dialogs') go('detail'); break;
+    case 'do-rollback': { const r=document.getElementById('rb-reason'); if(!r.value.trim()){ document.getElementById('rb-err').style.display='block'; r.style.borderColor='var(--tea-color-text-error-default)'; r.focus(); break; }
+      const sk=skillByName(st.selected), n=applyRollback(sk,+v,r.value.trim()); ov.innerHTML=''; go('history');
+      toast(I.ok+'<span>Skill set to v'+v+': created v'+n+' with its content (Rollback). v'+(+v+1)+'–v'+(n-1)+' stay in history.</span>'); } break;
+    case 'do-promote': ov.innerHTML=''; toast(I.ok+'<span>Promoted to Global as v'+(skillByName(st.selected).version+1)+' (Promotion). Origin is now Manual.</span>'); if(st.screen==='dialogs') go('detail'); break;
     case 'nscope': st.newScope=v; st.newErr=false; render(); break;
     case 'create': if(st.newScope==='project'&&!st.newProject){ st.newErr=true; render(); } else { toast(I.ok+'<span>Skill created as '+(st.newScope==='global'?'Global':'Project · '+esc(st.newProject))+' · v1 (Manual).</span>'); go('list'); } break;
     case 'approve': case 'reject': { const p=PROPOSALS.find(x=>x.id===v); p.status=k==='approve'?'approved':'rejected'; toast((k==='approve'?I.ok+'<span>Approved · '+p.skill+' is now v'+(p.base+1)+' · approved by admin</span>':I.info+'<span>Rejected · '+p.skill+' stays at v'+p.base+'</span>')); render(); } break;
@@ -981,6 +1087,7 @@ document.getElementById('notes-toggle').onclick=()=>{
   b.setAttribute('aria-label',st.notesOpen?'Collapse annotations':'Expand annotations');
 };
 window.addEventListener('hashchange',fromHash);
+if (window.innerWidth<1400 && !/notes=open/.test(location.search)) document.getElementById('notes-toggle').click();
 renderShell(); fromHash();
 </script>
 </body>
